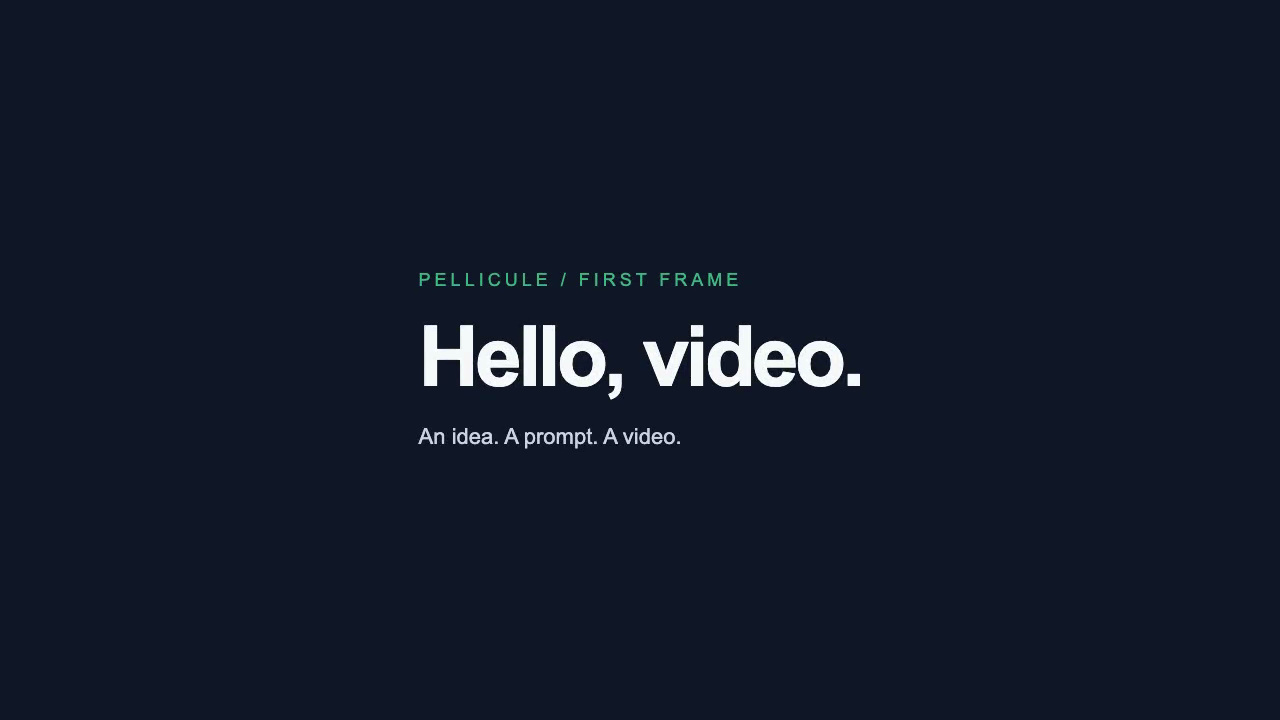
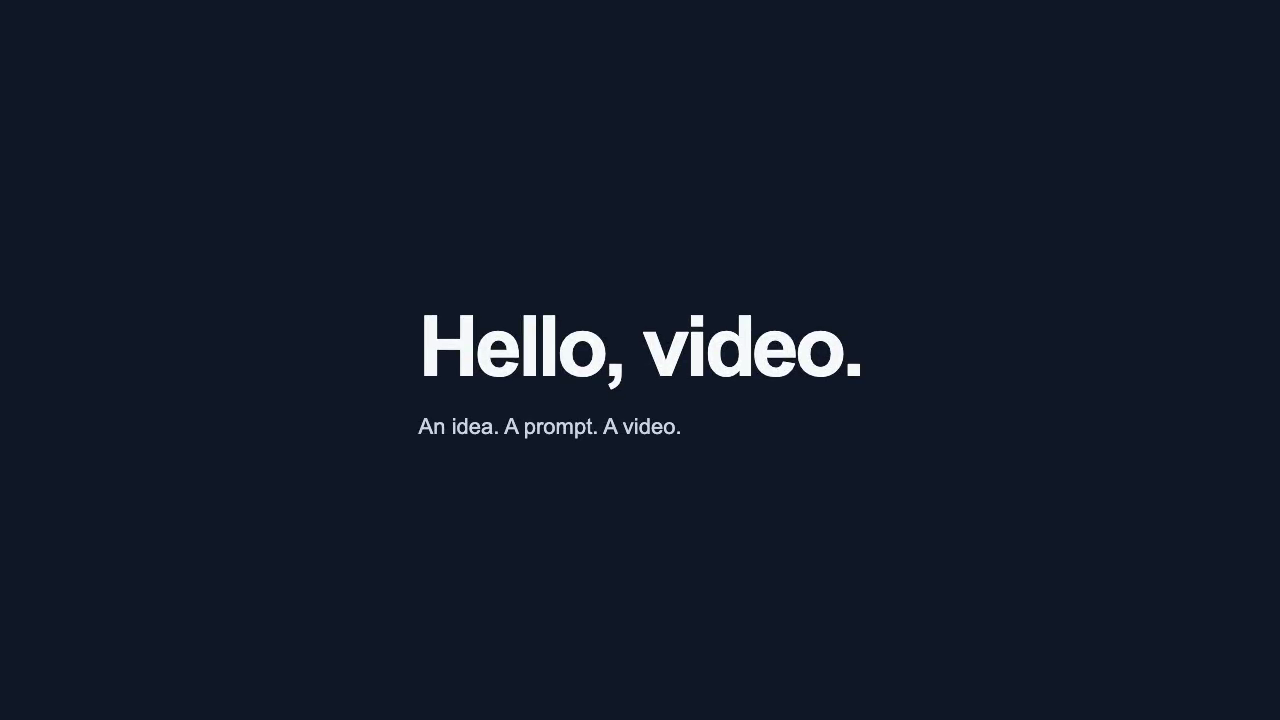
docs(pellicule): remove page and sample overlines

diff --git a/public/examples/first-video.vue b/public/examples/first-video.vue
@@ -1,0 +1,24 @@
+<script setup>
+import { computed } from 'vue'
+import { useFrame, interpolate } from 'pellicule'
+const frame = useFrame()
+const opacity = computed(() => interpolate(frame.value, [0, 20], [0, 1]))
+const y = computed(() => interpolate(frame.value, [0, 20], [24, 0]))
+</script>
+
+<template>
+  <main class="video">
+    <div :style="{ opacity, transform: `translateY(${y}px)` }">
+      <h1>Hello, video.</h1>
+      <span>An idea. A prompt. A video.</span>
+    </div>
+  </main>
+</template>
+
+<style>
+* { box-sizing: border-box; }
+body { margin: 0; }
+.video { width: 100%; height: 100%; display: grid; place-items: center; background: #111827; color: #f8fafc; font-family: Arial, sans-serif; }
+h1 { font-size: 84px; margin: 18px 0; letter-spacing: -4px; }
+span { color: #cbd5e1; font-size: 22px; }
+</style>

diff --git a/src/mdx/custom-components.tsx b/src/mdx/custom-components.tsx
@@ -30,7 +30,12 @@ import type { MDXComponents } from 'mdx/types'
  *  props from MDX (`<PricingTable plan="pro" />`). See
  *  `src/components/mdx/rich-content.tsx` for how the built-ins are written.
  */
+function NoEyebrow() {
+  return <style>{`.thally-docs-header .thally-docs-eyebrow { display: none; }`}</style>
+}
+
 export const customComponents: MDXComponents = {
+  NoEyebrow,
   // Add your components here, e.g.:
   // Highlight,
 }
